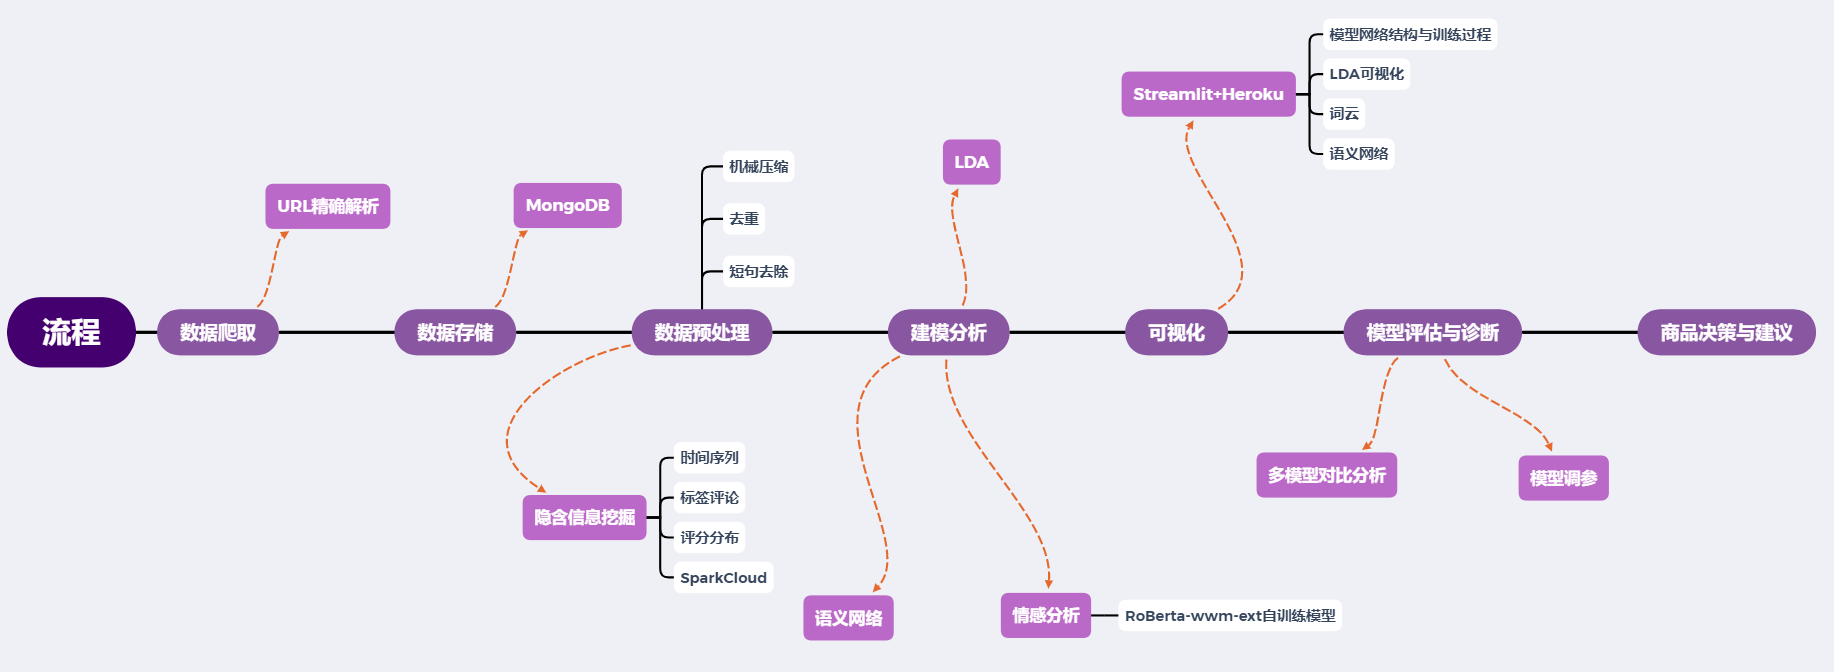
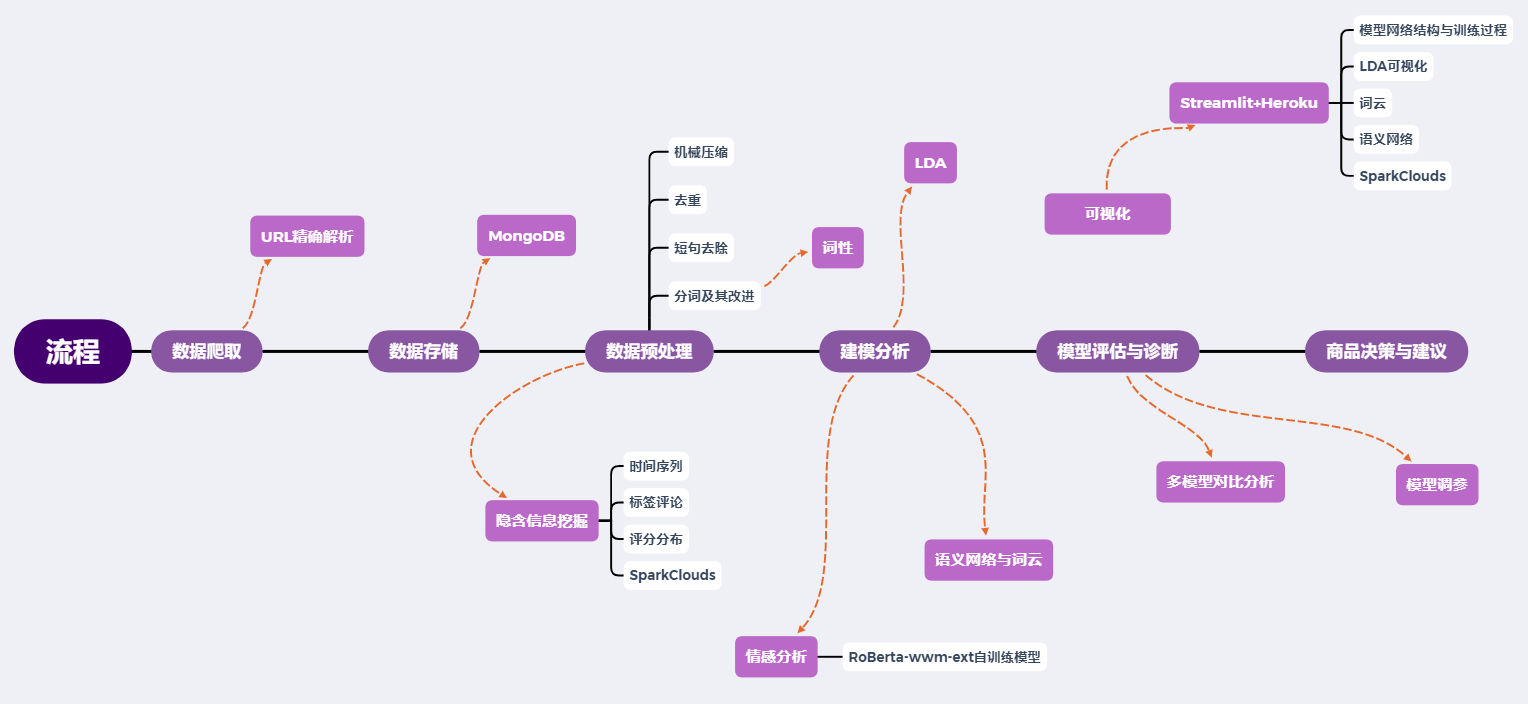
细节修改07181008

diff --git a/comment_sentiment_analysis.py b/comment_sentiment_analysis.py
@@ -194,9 +194,10 @@ if section == '☆ 项目介绍与规划':
     st.markdown("""- 丁一凡：
     1. 数据爬取与数据抽取
     2. 数据预处理以及标签评论的处理
-    3. 撰写会议记录
-    4. Streamlit可视化呈现最终结果
-    5. 将项目搭建在Heroku云服务器上
+    3. Streamlit可视化和交互式呈现最终结果
+    4. 将项目搭建在Heroku云服务器上
+    5. 撰写会议记录
+    6. 部署协调全组的工作
 - 鲁含章：
     1. 对整体评论数据与分标签评论数据进行LDA主题分析模型建模及可视化
     2. 使用ROST对分标签评论数据进行语义网络分析
@@ -331,17 +332,17 @@ if section == '① 数据采集与抽取':
     st.markdown('### 1.2 数据存储（MongoDB）')
     code_save_mongo = '''
     def save_to_mongo(data):
-    """
-    将数据存入mongoDB
-    :param data: (dict) 需要存入数据库的数据字典
-    :return:
-    """
-    client = MongoClient(**DATABASE_MONGO)
-    mongo_db = client['WebCrawler']
-    mongo_table = mongo_db['comment']
-    for item in data:
-        mongo_table.collection.insert_one(item)
-        mylogger.debug("存入数据 -- {}".format(item))
+        """
+        将数据存入mongoDB
+        :param data: (dict) 需要存入数据库的数据字典
+        :return:
+        """
+        client = MongoClient(**DATABASE_MONGO)
+        mongo_db = client['WebCrawler']
+        mongo_table = mongo_db['comment']
+        for item in data:
+            mongo_table.collection.insert_one(item)
+            mylogger.debug("存入数据 -- {}".format(item))
     '''
     st.code(code_save_mongo)
 
@@ -372,13 +373,13 @@ if section == '② 数据预处理与探索':
 
     code_deldup = '''
     def del_duplicate(data):
-    """
-    对数据框评论栏去重
-    :param data: (DataFrame)
-    :return: (DataFrame)
-    """
-    result = data.drop_duplicates(['comment'], ignore_index=True)
-    return result
+        """
+        对数据框评论栏去重
+        :param data: (DataFrame)
+        :return: (DataFrame)
+        """
+        result = data.drop_duplicates(['comment'], ignore_index=True)
+        return result
     '''
     st.code(code_deldup)
 
@@ -391,28 +392,28 @@ if section == '② 数据预处理与探索':
         st.dataframe(comments_compress, 500, 400)
     code_compress = '''
     def compress(comment, n=4):
-    """
-    对文本进行正序、逆序机械压缩，短句删除的处理
-    :param n: 所需删除短句的长度
-    :param comment: (str)
-    :return: (str)
-    """
-    comp_comm = []
-    comment = str(comment)
-    if len(comment) <= n:
-        pass
-    else:
-        comment = re.sub("[\s,./?'\"|\]\[{}+_)(*&^%$#@!~`=\-]+|[+\-，。/！？、～@#¥%…&*（）—；：‘’“”]+", " ", comment)
-        comp_list = list(comment)
-        comp_list = compressed_text(comp_list)
-        comp_list = compressed_text(comp_list[::-1])
-        comp_list = comp_list[::-1]
-        if len(comp_list) <= n:
+        """
+        对文本进行正序、逆序机械压缩，短句删除的处理
+        :param n: 所需删除短句的长度
+        :param comment: (str)
+        :return: (str)
+        """
+        comp_comm = []
+        comment = str(comment)
+        if len(comment) <= n:
             pass
         else:
-            comp_comm = []
-            comp_comm = (''.join(comp_list)).replace("\\n", "")
-    return comp_comm
+            comment = re.sub("[\s,./?'\"|\]\[{}+_)(*&^%$#@!~`=\-]+|[+\-，。/！？、～@#¥%…&*（）—；：‘’“”]+", " ", comment)
+            comp_list = list(comment)
+            comp_list = compressed_text(comp_list)
+            comp_list = compressed_text(comp_list[::-1])
+            comp_list = comp_list[::-1]
+            if len(comp_list) <= n:
+                pass
+            else:
+                comp_comm = []
+                comp_comm = (''.join(comp_list)).replace("\\n", "")
+        return comp_comm
     '''
     st.code(code_compress)
 
@@ -424,27 +425,27 @@ if section == '② 数据预处理与探索':
         st.json(tag_comment_origin)
     code_extract_tag = '''
     def extract_tag_comment(comment):
-    """
-    对评论数据进行标签评论抽取，若符合标签评论规范则返回标签评论字典，若不符合则返回None
-    :param comment: (str)
-    :return: (dict/None)
-    """
-    comment_lines = comment.split("\\n")
-    tag_comment_dict = {}
-    if len(comment) < 2:
-        return None
-    else:
-        for lines in comment_lines:
-            tag_comment = lines.split('：')
-            if len(tag_comment) == 2:
-                if len(tag_comment[0]) < 6:
-                    tag_comment_dict[tag_comment[0]] = tag_comment[1]
-            else:
-                continue
-    if tag_comment_dict:
-        return tag_comment_dict
-    else:
-        return None
+        """
+        对评论数据进行标签评论抽取，若符合标签评论规范则返回标签评论字典，若不符合则返回None
+        :param comment: (str)
+        :return: (dict/None)
+        """
+        comment_lines = comment.split("\\n")
+        tag_comment_dict = {}
+        if len(comment) < 2:
+            return None
+        else:
+            for lines in comment_lines:
+                tag_comment = lines.split('：')
+                if len(tag_comment) == 2:
+                    if len(tag_comment[0]) < 6:
+                        tag_comment_dict[tag_comment[0]] = tag_comment[1]
+                else:
+                    continue
+        if tag_comment_dict:
+            return tag_comment_dict
+        else:
+            return None
     '''
     st.code(code_extract_tag)
 
@@ -517,6 +518,7 @@ if section == '③ 自训练情感分析模型':
 
     st.markdown('### 3.3模型效果对比')
     df = pd.DataFrame({'Roberta-wwm-ext': [0.9282735613010842, 0.9089481946624803, 0.9538714991762768],
+                       'Bert-base-chinese': [0.87, 0.8284883720930233, 0.9375],
                        'snowNLP': [0.87, 0.8680781758957655, 0.8766447368421053],
                        'ROSTCM6': [0.675, 0.6319612590799032, 0.8585526315789473]},
                       index=['Accuracy', 'Precision', 'Recall']
@@ -573,19 +575,19 @@ if section == '④ 评论分词与改进':
     st.markdown('### 4.3 评论分词改进')
     code_cut_word = '''
     def str_cut(comment, stop_words):
-    """
-    切分字符串，并去除停用词，保留v, n, a, d, vd, an, ad，返回处理好的单词
-    :param comment: (str) 文本评论
-    :param stop_words: (list) 停用词
-    :return: object_list (list) 处理好的词
-    """
-    seg_list = psg.cut(comment)
-    object_list = []
-    for word in seg_list:  # 循环读取每个分词
-        # 获得需要的词性，去除停用词
-        if word.word not in stop_words and (word.flag in ['v', 'n', 'a', 'd', 'vd', 'an', 'ad']): 
-            object_list.append(word.word)  
-    return object_list
+        """
+        切分字符串，并去除停用词，保留v, n, a, d, vd, an, ad，返回处理好的单词
+        :param comment: (str) 文本评论
+        :param stop_words: (list) 停用词
+        :return: object_list (list) 处理好的词
+        """
+        seg_list = psg.cut(comment)
+        object_list = []
+        for word in seg_list:  # 循环读取每个分词
+            # 获得需要的词性，去除停用词
+            if word.word not in stop_words and (word.flag in ['v', 'n', 'a', 'd', 'vd', 'an', 'ad']): 
+                object_list.append(word.word)  
+        return object_list
     '''
     st.code(code_cut_word)
 
@@ -642,32 +644,32 @@ if section == '⑥ LDA主题模型构建':
 
     code_LDA = '''
     def LDA(data, components, htmlfile=None):
-    """
-    训练LDA模型，同时生成可视化文件
-    :param data: (list) 文档列表
-    :param components: (int) 指定主题数  
-    :param htmlfile: (str) 可视化文件存储路径
-    :return: None
-    """
-    # 关键词提取和向量转化
-    tf_vectorizer = CountVectorizer(max_features=1000,
-                                    max_df=0.5,
-                                    min_df=10,
-                                    encoding='utf-8'
-                                    )
-    tf = tf_vectorizer.fit_transform(data)
-    mylogger.debug('LDA模型训练开始')
-    lda = LatentDirichletAllocation(n_components=components,
-                                    max_iter=50,
-                                    learning_method='online',
-                                    learning_offset=50,
-                                    random_state=0,
-                                    )
-    lda.fit(tf)
-    mylogger.debug('LDA模型训练完成')
-    result = pyLDAvis.sklearn.prepare(lda, tf, tf_vectorizer)
-    pyLDAvis.save_html(result, 'data/LDA_Results/' + htmlfile)
-    mylogger.debug('LDA模型可视化文件已生成')
+        """
+        训练LDA模型，同时生成可视化文件
+        :param data: (list) 文档列表
+        :param components: (int) 指定主题数  
+        :param htmlfile: (str) 可视化文件存储路径
+        :return: None
+        """
+        # 关键词提取和向量转化
+        tf_vectorizer = CountVectorizer(max_features=1000,
+                                        max_df=0.5,
+                                        min_df=10,
+                                        encoding='utf-8'
+                                        )
+        tf = tf_vectorizer.fit_transform(data)
+        mylogger.debug('LDA模型训练开始')
+        lda = LatentDirichletAllocation(n_components=components,
+                                        max_iter=50,
+                                        learning_method='online',
+                                        learning_offset=50,
+                                        random_state=0,
+                                        )
+        lda.fit(tf)
+        mylogger.debug('LDA模型训练完成')
+        result = pyLDAvis.sklearn.prepare(lda, tf, tf_vectorizer)
+        pyLDAvis.save_html(result, 'data/LDA_Results/' + htmlfile)
+        mylogger.debug('LDA模型可视化文件已生成')
     '''
     st.code(code_LDA)
 
